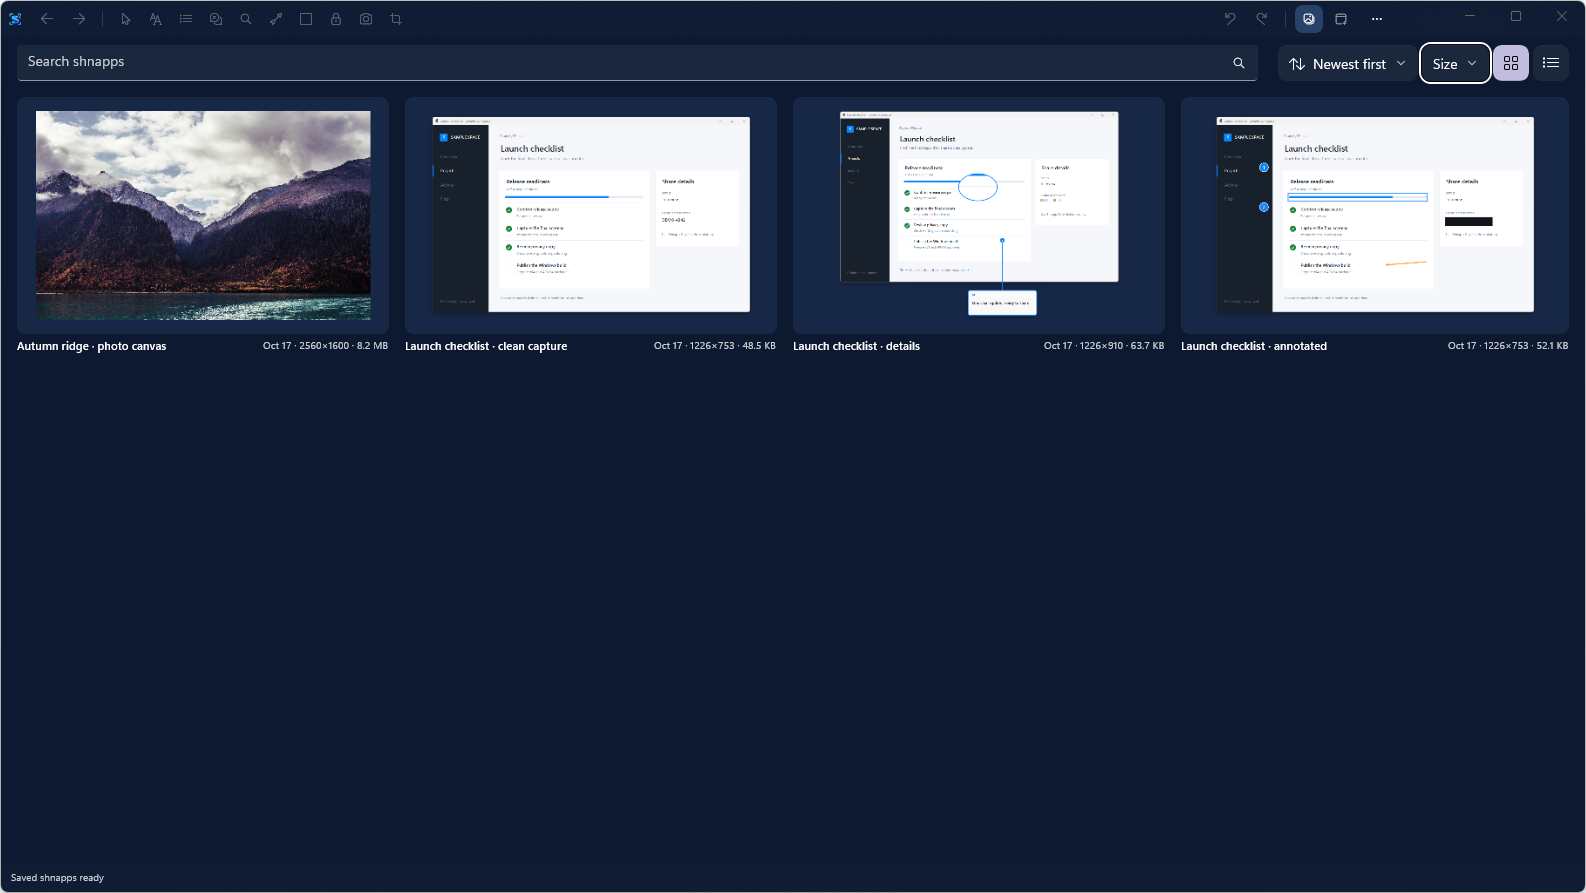
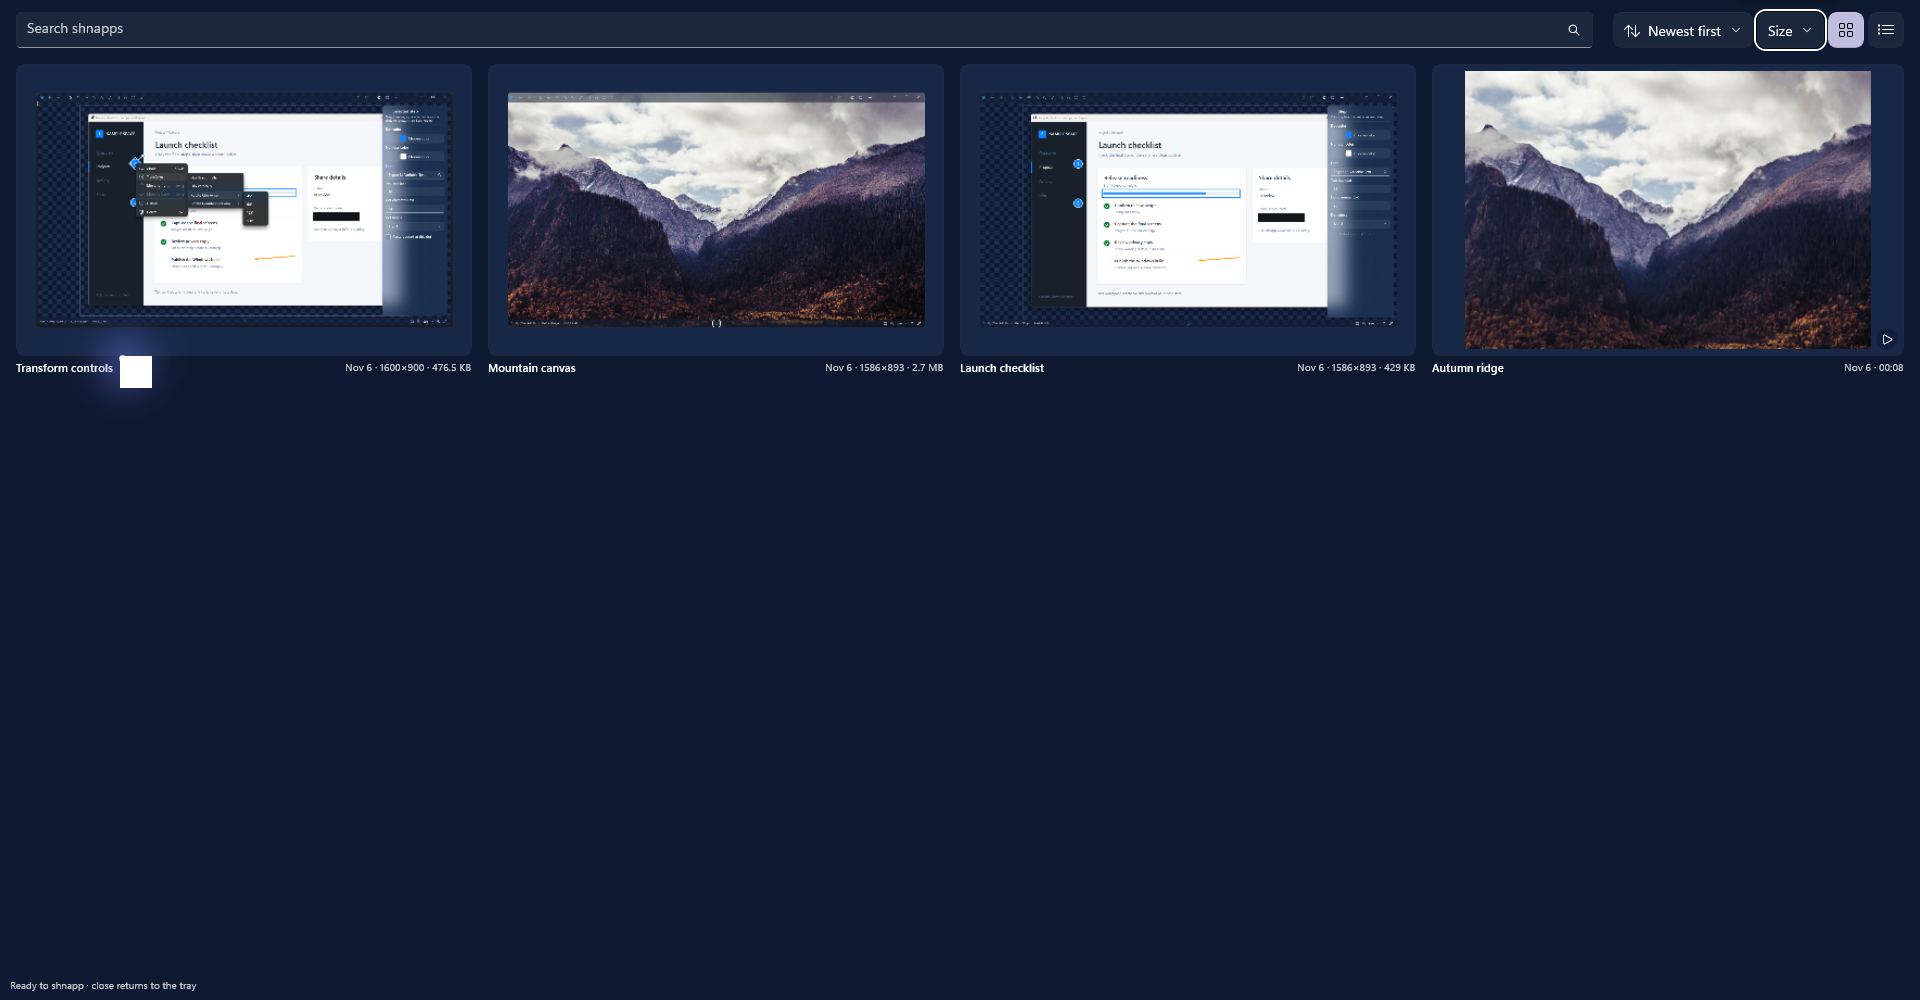
Show video thumbnail in release gallery

diff --git a/packaging/store/LISTING-DRAFT.md b/packaging/store/LISTING-DRAFT.md
@@ -77,7 +77,7 @@ Record a region, window, or display with optional computer audio, microphone, an
 | --- | --- | --- |
 | 1. Video editor | [05-video-editor.png](screenshots/05-video-editor.png), 1920 × 1032. Video preview with editable text and image overlays above video and audio timeline tracks. | Trim clips and layer video, images, live text, and audio on a compact timeline. |
 | 2. Photo canvas | [02-photo-canvas.png](screenshots/02-photo-canvas.png), 1586 × 893. The image continues behind the translucent title bar, footer, and floating options panel. | Keep the whole picture in view while adjusting tools and zoom. |
-| 3. Photo library | [03-library.png](screenshots/03-library.png), 1586 × 893. Fictional screenshots in the searchable gallery. | Find and reopen saved captures in one searchable local library. |
+| 3. Mixed library | [03-library.png](screenshots/03-library.png), 1920 × 1000. Three fictional screenshots and one sample video together in the same gallery. | Find screenshots and recordings together in one searchable local library. |
 | 4. Recording settings | [06-recording-settings.png](screenshots/06-recording-settings.png), 1920 × 1032. Separate computer audio, microphone, camera, and pointer controls. | Choose audio sources, camera video, and pointer visibility for screen recordings. |
 | 5. Annotated editor | [01-editor-annotated.png](screenshots/01-editor-annotated.png), 1586 × 893. Numbered steps and a covered fictional access code. | Add context with numbered steps and cover sensitive details before sharing. |
 | 6. Empty gallery | [07-empty-gallery.png](screenshots/07-empty-gallery.png), 1920 × 1032. Direct Capture a region and Record video actions over the new illustration. | Start a screenshot or screen recording directly from the empty library. |
